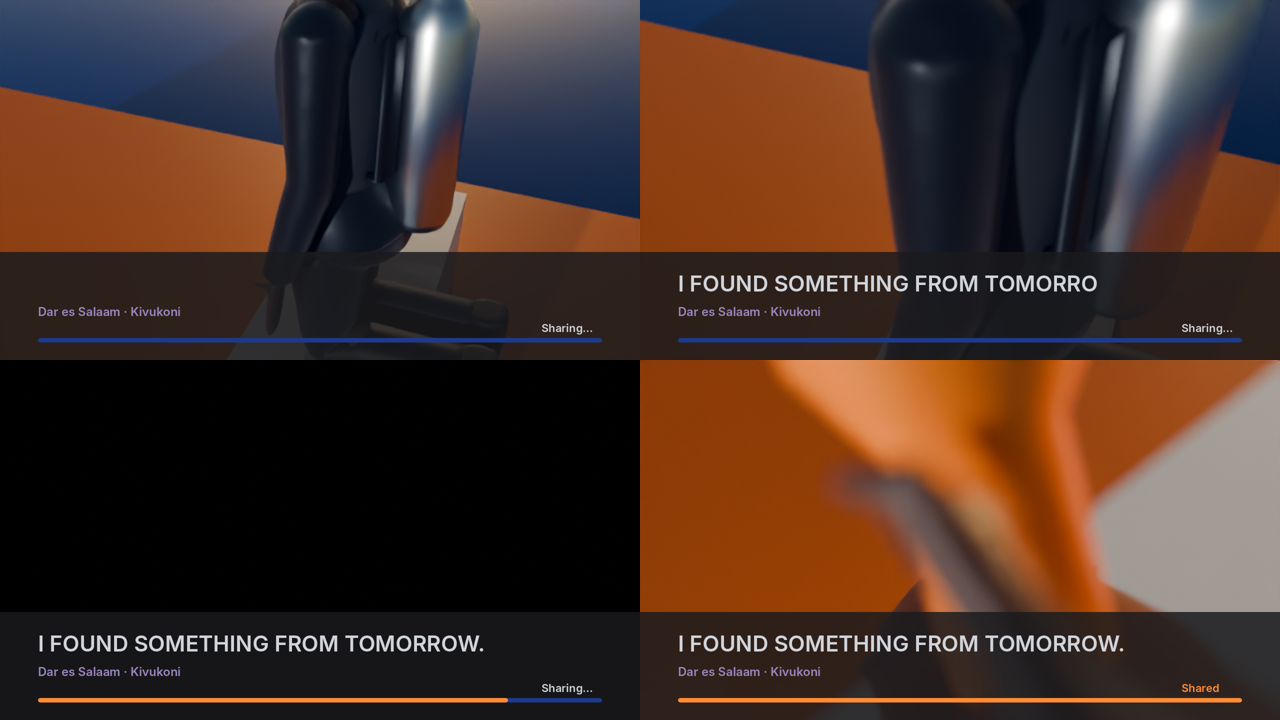
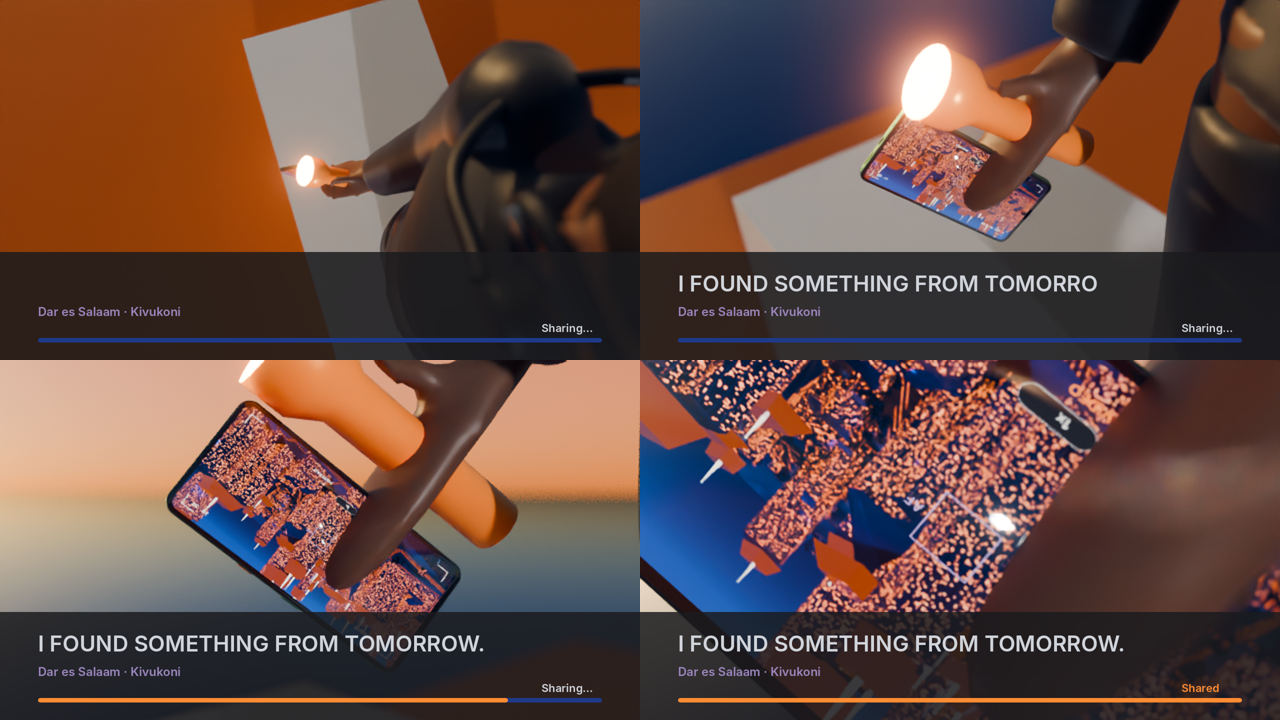
Sharing scene: footage upright on the phone

diff --git a/POSTA_2040/scripts/scenes/s13.py b/POSTA_2040/scripts/scenes/s13.py
@@ -26,7 +26,7 @@ def build(scn, quality):
         phone.matrix_world = M @ Matrix.Translation((0, pb.length * 0.9, 0.02)) @ Euler((math.radians(-90), 0, math.radians(90)), 'XYZ').to_matrix().to_4x4()
         phone.keyframe_insert('location', frame=f); phone.keyframe_insert('rotation_euler', frame=f)
     sc.frame_set(1)
-    S.screen_sequence(seq_dir=os.path.join(P.ROOT, 'renders', 's09_ui'), strength=2.6)
+    S.screen_sequence(seq_dir=os.path.join(P.ROOT, 'renders', 's09_ui'), strength=2.6, flip=True)
     # Posta 2040 skyline far away on the horizon: a few tall boxes in silhouette (real city out of frame range)
     for i in range(14):
         h = [60, 120, 90, 200, 150, 80, 260, 110, 170, 70, 140, 230, 95, 60][i]
